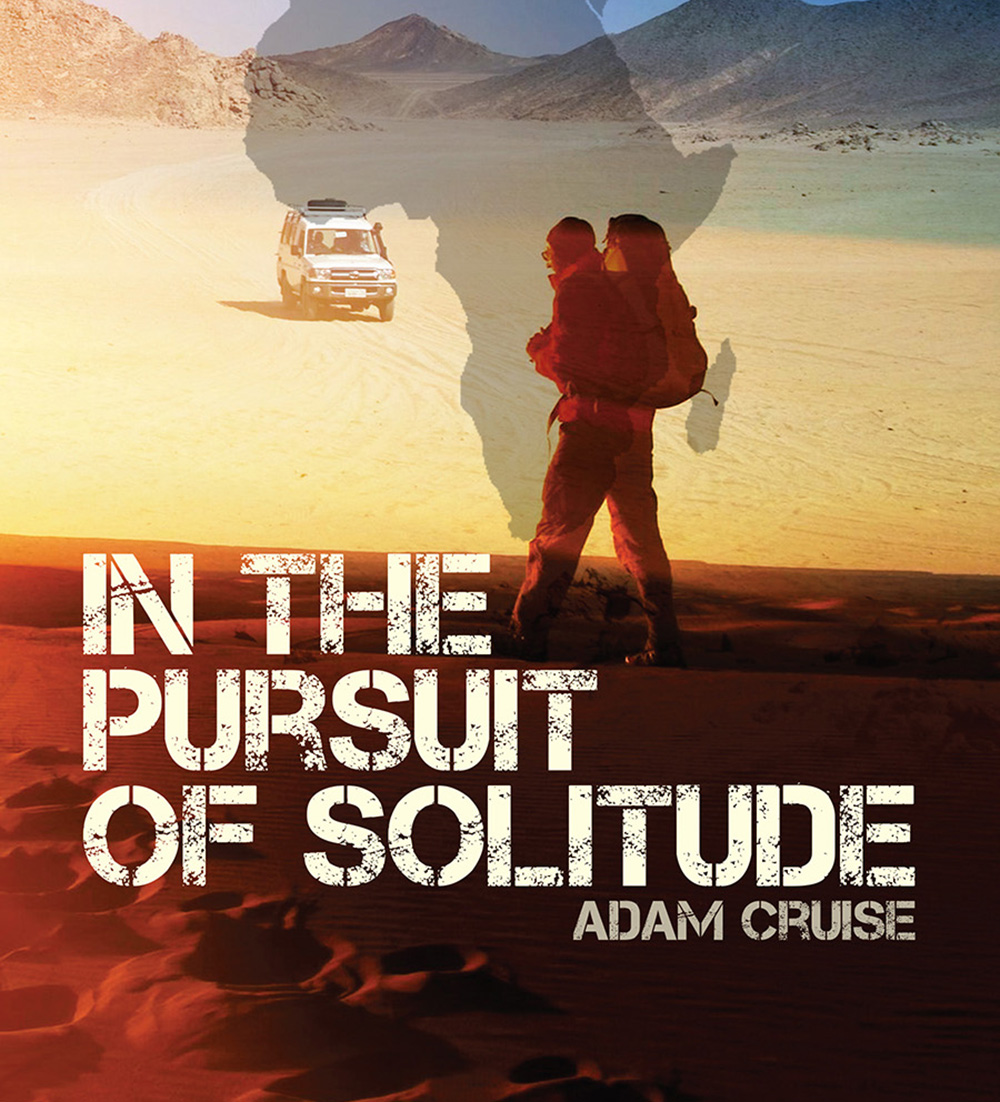
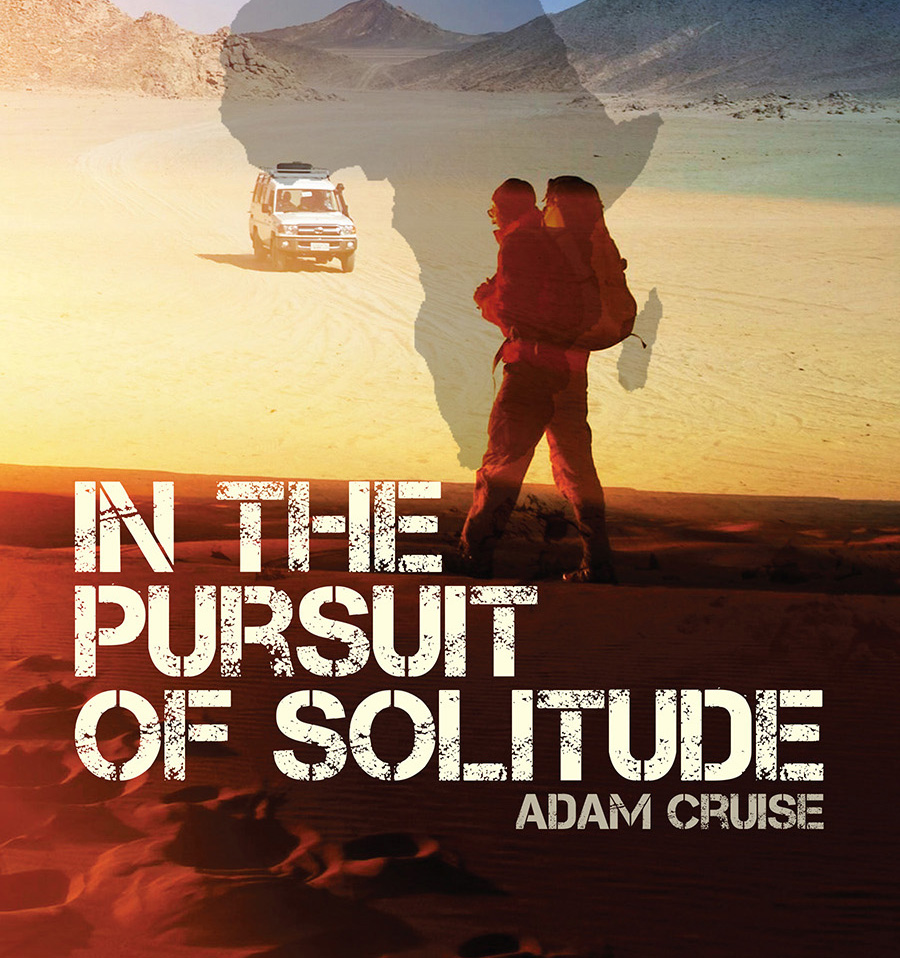
Added Book Covers

diff --git a/portfolio.html b/portfolio.html
@@ -102,16 +102,16 @@
 <img src="images/dunesclose_image.jpg">
 </li>
 <li>
-<img src="images/book5close_image_image.jpg">
+<img src="images/book5close_image.jpg">
 </li>
 <li>
-<img src="images/book1close_image_image.jpg">
+<img src="images/book1close_image.jpg">
 </li>
 <li>
-<img src="images/book2close_image_image.jpg">
+<img src="images/book2close_image.jpg">
 </li>
 <li>
-<img src="images/book3close_image_image.jpg">
+<img src="images/book3close_image.jpg">
 </li>
 <li>
 <a href="http://placehold.it/800x500&amp;text=[img]"><img data-caption="caption 6 here..." src="http://placehold.it/800x500&amp;text=[img]"></a>
